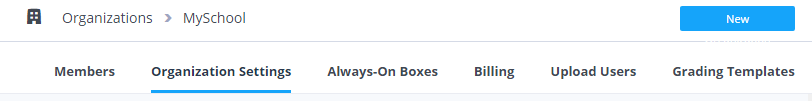
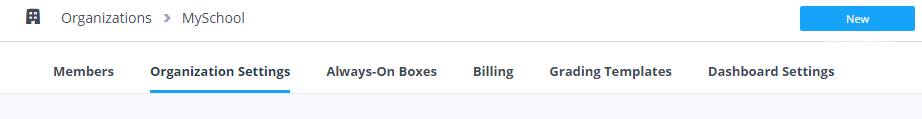
remove bulk upload

diff --git a/source/docs/teacher/classes/addstudents.html.md b/source/docs/teacher/classes/addstudents.html.md
@@ -1,20 +1,8 @@
 ---
-title: Adding Students
+title: Adding Students to a class
 class_name: docs
 full_width: true
 ---
-
-You can add students to your organization in two ways
-
-1. Add them to the Organization only.
-1. Add them to a Class, which will also add them to the Organization.
-
-### Adding a student to the organization only
-An administrator user should click on their user name from the dashboard and then select the Organization shown towards the bottom of the page. Next, select Organization Settings and scroll down until you find the "Invitation Token" section. 
-
-Copy the Invite URL field and send this to the student via email or place the token in a web page. When accessed, the student will be taken through a signup process and and as they select that they are a Student will be added to the organization automatically. If the student already has a Codio account then organisation assignment will be made.
-
-### Adding a student to a class
 
 You can add students to your organisation and your class in one easy step by giving each student a unique two-word phrase called a token.  A student will enter the token and will automatically be added to the your organisation and the correct class as they complete the process to create a Codio account.  To do this follow the steps below: 
 
@@ -32,3 +20,5 @@ You can add students to your organisation and your class in one easy step by giv
 1. Give your students the token and then ask them to go to [https://codio.com/p/join-class](https://codio.com/p/join-class) or select the 'Join Class' button on our main website. They should enter the token when requested and proceed to register for a Codio account. 
 1. To view the students in your class, select the class and the **Students** tab once again. You will see a list of students’ names who have successfully completed the sign-up process. 
 <img alt="authtoken" src="/img/docs/manage_classes/adding_students_invite/student_list.png" class="simple"/>
+
+You can also add students just to your organisation. see [Adding Students](/docs/teacher/create/addstudents/)

diff --git a/source/docs/teacher/create/adminrole.html.md b/source/docs/teacher/create/adminrole.html.md
@@ -4,11 +4,11 @@ class_name: docs
 full_width: true
 ---
 
-As the creator of your educational ‘organization’ in Codio, you have administrator rights. This means that you can add and remove [teachers](/docs/teacher/create/addteachers/) and [students](/docs/teacher/create/bulkupload/) from your organization, edit your organization information, manage your students [dashboard settings](/docs/teacher/create/dash/), create [grading templates](/docs/teacher/assess/rubric/) and [delete](/docs/teacher/create/deleteorg/) your organization.
+As the creator of your educational ‘organization’ in Codio, you have administrator rights. This means that you can add and remove [teachers](/docs/teacher/create/addteachers/) from your organization, edit your organization information, manage your students [dashboard settings](/docs/teacher/create/dash/), create [grading templates](/docs/teacher/assess/rubric/) and [delete](/docs/teacher/create/deleteorg/) your organization.
 
 To access the administration tools:
 
-1. Click on your profile picture (bottom left of  **Classes**) 
+1. Click on your profile picture (bottom left of **Classes**) 
 <img alt="authtoken" src="/img/docs/class_administration/profilepic.png" class="simple"/>
 1. Click the name of your school (under **My Organizations**)
 <img alt="authtoken" src="/img/docs/class_administration/addteachers/myschoolorg.png" class="simple"/>

diff --git a/source/docs/teacher/create/deleteorg.html.md b/source/docs/teacher/create/deleteorg.html.md
@@ -13,6 +13,6 @@ If, for any reason you want to completely delete your organization, you can do s
 <img alt="authtoken" src="/img/docs/class_administration/addteachers/myschoolorg.png" class="simple"/>
 
 1. Click the **Organization settings** tab 
-<img alt="authtoken" src="/img/docs/manage_organization/deleteorg/orgsettingstab.png" class="simple"/>
+<img alt="authtoken" src="/img/docs/manage_organization/orgsettingstab.png" class="simple"/>
 
 1. Go to the **Delete** section at the bottom of the page, and type the confirmation code. Note that once your school action has been deleted, the action cannot be reverted.
